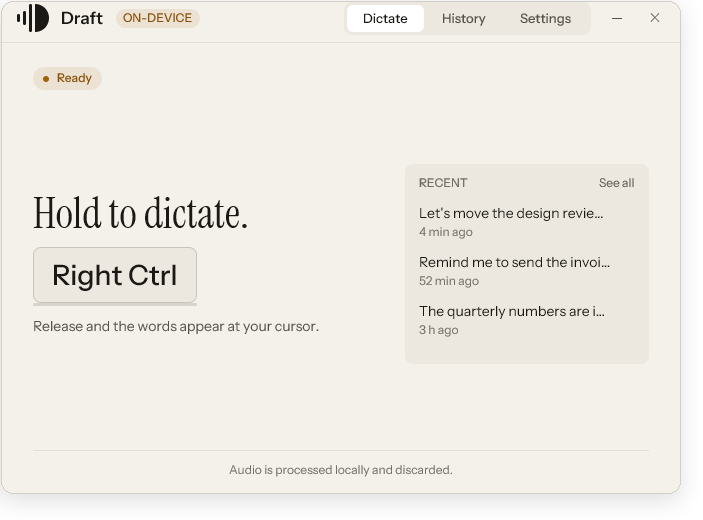
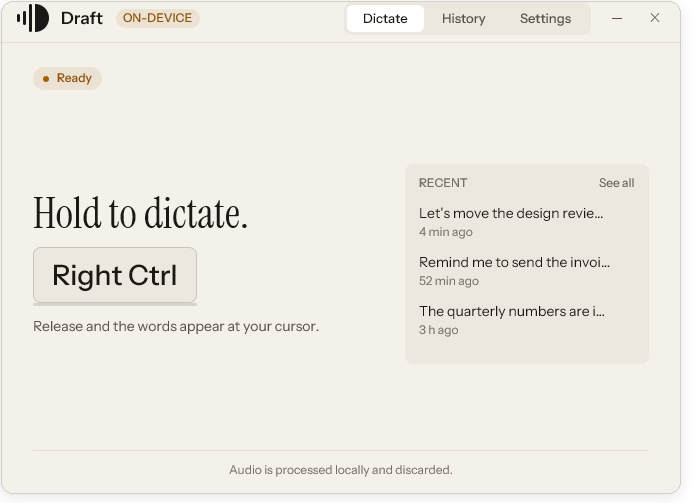
docs: tighten the space between the hero image and the first heading

diff --git a/README.md b/README.md
@@ -13,9 +13,7 @@ at your cursor, and your voice never leaves your PC.
 
 <br>
 
-<img src="docs/images/hero.png" alt="Draft, ready to dictate" width="703">
-
-<br>
+<img src="docs/images/hero.png" alt="Draft, ready to dictate" width="697">
 
 ## Why Draft
 
